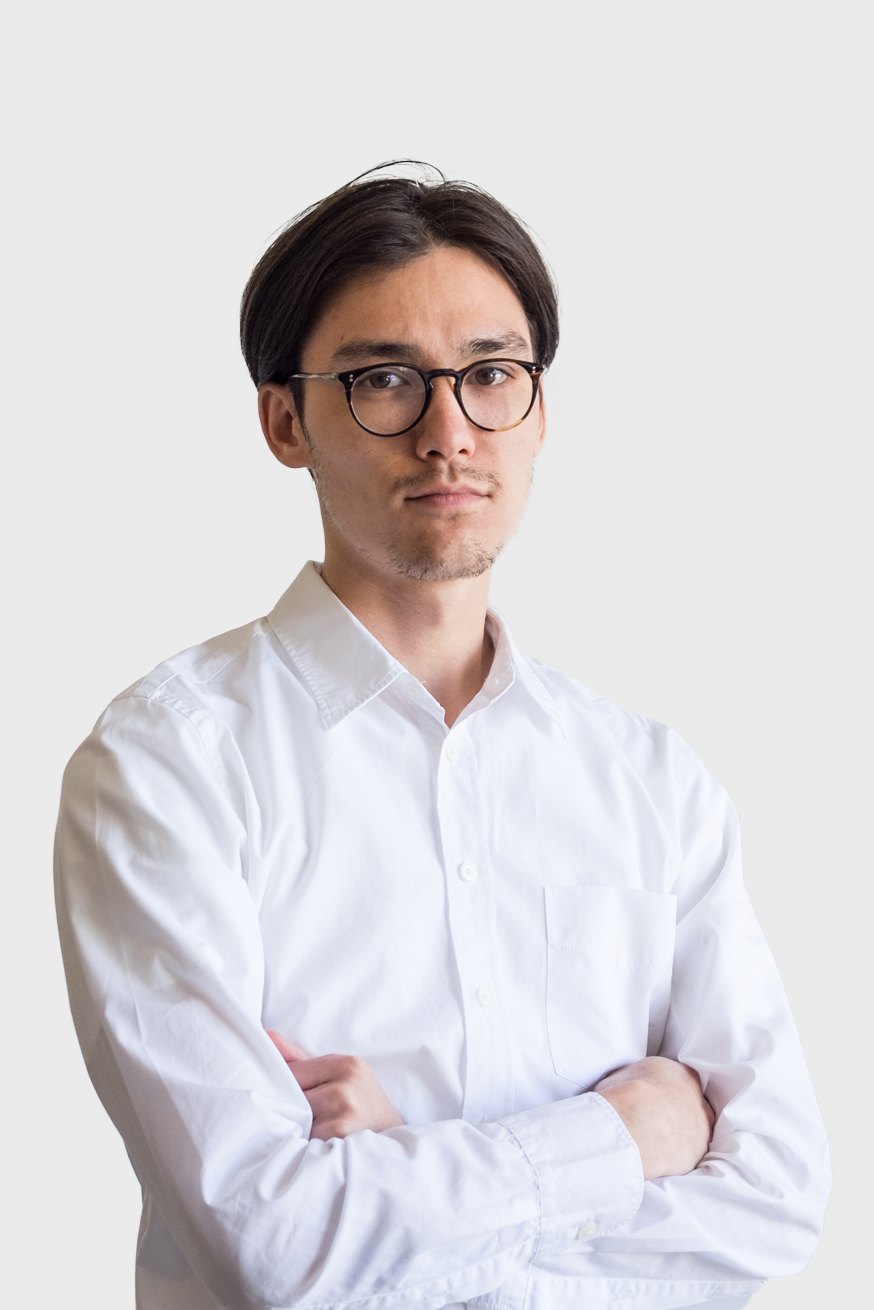
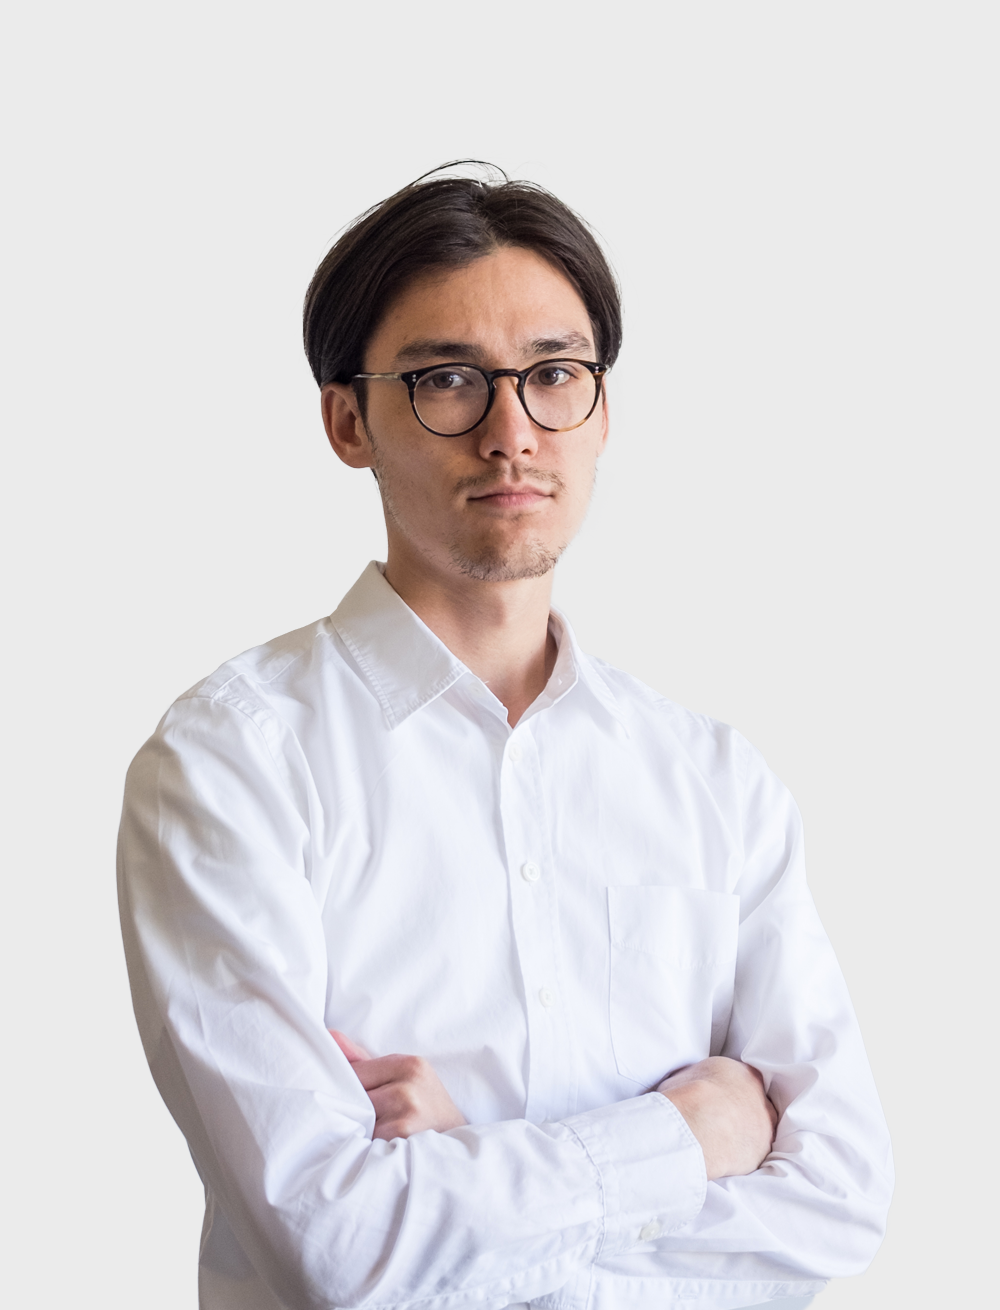
building out about page and more

diff --git a/src/pages/work/index.js b/src/pages/work/index.js
@@ -27,40 +27,14 @@ class Work extends Component {
 
     return (
       <>
-        <Hero heroText className="about-hero" headline="Our Work" subhead="We make a difference for our clients"/>
-        <Fade bottom distance="30px" duration={500}>
-        <Link to="../strive" className="work-card-link">
-          <Transporter name="caseStudyStrive" show={true} duration={250} properties={['margin']} unstableOnUnmount>
-            <FeaturedImage featuredFullProject className="featured-project featured-strive" projectName="Strive Digital" projectCategory="Digital Product" projectIndustry="Advocacy Tech"/>
-          </Transporter>
-        </Link>
-        <Link to="../motivote" className="work-card-link">
-          <Transporter name="caseStudyMotivote" show={true} duration={250} properties={['margin']} unstableOnUnmount>
-            <FeaturedImage featuredFullProject className="featured-project featured-motivote" projectName="Motivote" projectCategory="Digital Product" projectIndustry="Advocacy Tech"/>
-          </Transporter>
-        </Link>
-        <Link to="../betterfin" className="work-card-link">
-          <Transporter name="caseStudyBetterfin" show={true} duration={250} properties={['margin']} unstableOnUnmount>
-            <FeaturedImage featuredFullProject className="featured-project featured-betterfin" projectName="Betterfin" projectCategory="Digital Product" projectIndustry="Fintech"/>
-          </Transporter>
-        </Link>
-        <Link to="../votecrew" className="work-card-link">
-        <Transporter name="caseStudyVotecrew" show={true} duration={250} properties={['margin']} unstableOnUnmount>
-          <FeaturedImage featuredFullProject className="featured-project featured-votecrew" projectName="Votecrew" projectCategory="Digital Product" projectIndustry="Advocacy Tech"/>
-        </Transporter>
-        </Link>
-        <Link to="../farmigo" className="work-card-link">
-          <Transporter name="caseStudyFarmigo" show={true} duration={250} properties={['margin']} unstableOnUnmount>
-            <FeaturedImage featuredFullProject className="featured-project featured-farmigo" projectName="Farmigo" projectCategory="Digital Product" projectIndustry="Food"/>
-          </Transporter>
-        </Link>
-        <Link to="../instructrr" className="work-card-link">
-          <Transporter name="caseStudyInstructrr" show={true} duration={250} properties={['margin']} unstableOnUnmount>
-            <FeaturedImage featuredFullProject className="featured-project featured-instructrr" projectName="Instructrr" projectCategory="Digital Product" projectIndustry="Fitness"/>
-          </Transporter>
-        </Link>
+        <Hero
+          heroText
+          secondaryHero
+          className="work-hero"
+          headline={<>We make a <span className="headline-emphasis">difference</span> for our clients.</>}
+          subhead="We build trust to deliver impactful results."
+        />
         <WorkTogether headline="Let's get to know each other"/>
-        </Fade>
         <Footer/>
       </>
     )

diff --git a/src/styles/styles.scss b/src/styles/styles.scss
@@ -439,11 +439,11 @@ button:focus {
       position: relative;
       .hero-headline-fade {
         &.headline {
-          @include animation(.5s, 2s, heroHeadlineFade);
+          @include animation(.5s, 0s, heroHeadlineFade);
           opacity: 0;
         }
         .subhead {
-          @include animation(.5s, 2.25s, heroHeadlineFade);
+          @include animation(.5s, .25s, heroHeadlineFade);
           opacity: 0;
         }
       }
@@ -493,13 +493,30 @@ button:focus {
     .image-background {
     }
   }
-  &.about-hero {
+  &.secondary-hero {
     height: 80vh;
+    .headline-text-container {
+      .headline {
+        align-items: flex-end;
+        margin-bottom: 0;
+      }
+    }
+  }
+  &.about-hero {
     background-color: $lightBlue;
     color: $darkBlue;
     .subhead-text-container {
       .subhead {
         color: $darkBlue;
+      }
+    }
+  }
+  &.work-hero {
+    background-color: $yellow;
+    color: $darkGreen;
+    .subhead-text-container {
+      .subhead {
+        color: $darkGreen;
       }
     }
   }
@@ -1098,7 +1115,7 @@ button:focus {
         .text-body-slide {
           .text-statement {
             opacity: 0;
-            @include animation(.5s, .75s, textBodySlide);
+            @include animation(.5s, .5s, textBodySlide);
           }
         }
       }
@@ -1111,7 +1128,7 @@ button:focus {
         justify-content: center;
         .text-statement {
           opacity: 0;
-          @include animation(.5s, .75s, textBodySlide);
+          @include animation(.5s, .5s, textBodySlide);
         }
       }
       .text-statement {
@@ -1147,11 +1164,12 @@ button:focus {
       }
     }
     .member-image-container {
-      width: 100%; height: 100%;
+      width: 100%;
+      height: 100%;
+      background: transparent !important;
       &.right {
         .image-wrapper {
           .image-background {
-            background-position: left;
           }
         }
       }
@@ -1607,7 +1625,7 @@ button {
     .product-card-image {
       overflow: hidden;
       height: 250px; width: 100%;
-      background: grey;
+      background: $bgColorWorkCard;
       position: relative;
       .image-cover {
         height: 100%; width: 100%;

diff --git a/src/components/Hero/index.js b/src/components/Hero/index.js
@@ -7,7 +7,7 @@ import Reveal from 'react-reveal/Reveal';
 export default class Hero extends Component {
 
     render() {
-        const { heroText, heroImage, className, headline, subhead, projectName, projectCategory, projectIndustry, featuredWorks, noFeaturedWorks, style, anim } = this.props
+        const { heroText, heroImage, className, headline, subhead, projectName, projectCategory, projectIndustry, featuredWorks, secondaryHero, style, anim } = this.props
         return (
             <div className="nomargin-container" style={style}>
                 {heroText && headline && subhead && featuredWorks &&
@@ -35,9 +35,9 @@ export default class Hero extends Component {
                     </Grid>
                   </div>
                 }
-                {heroText && headline && subhead && noFeaturedWorks &&
+                {heroText && headline && subhead && secondaryHero &&
                   <div classname="container">
-                    <Grid className={`hero text-hero ${className}`} container alignItems="center">
+                    <Grid className={`hero text-hero secondary-hero ${className}`} container alignItems="center">
                       <Grid item md={7} xs={6}  className="headline-text-container">
                         <Reveal effect="hero-headline-fade">
                             <p className="headline">{headline}</p>

diff --git a/src/pages/about/index.js b/src/pages/about/index.js
@@ -20,7 +20,9 @@ class About extends Component {
     [
       require("../../assets/team/team-1-small.jpg"),
       require("../../assets/team/zach.png"),
-      require("../../assets/team/adrian.png")
+      require("../../assets/team/adrian.png"),
+      require("../../assets/team/alana.png"),
+      require("../../assets/team/taylor.png")
     ].forEach(preloadImage)
   }
 
@@ -31,7 +33,7 @@ class About extends Component {
       <>
         <Hero
           heroText
-          noFeaturedWorks
+          secondaryHero
           className="about-hero"
           headline={<>Small Team. <span className="headline-emphasis">Big Impact.</span></>}
           subhead="We're startup industry veterans who care deeply about Making A Difference."

diff --git a/src/styles/variables.scss b/src/styles/variables.scss
@@ -27,6 +27,7 @@ $accentColor: #ffde7c;
 
 
 //NEWSITE
+$buffer: 10px;
 
 $yellow:                #F5E1A4;
 $pink:                  #D7A9E3;
@@ -72,10 +73,10 @@ $lineHeightLargeDesktop: $fontSizeLargeDesktop*2;
 // $fontSizeHeadline: 20px;
 
 
+
 $fontSizeStatement: 38px;
 $lineHeightStatement: $fontSizeStatement*1.5;
 
-$buffer: 10px;
 $offsetValue: $buffer*6;
 $radius: 4px;
 $radiusFull: 100px;

diff --git a/src/styles/mixins.scss b/src/styles/mixins.scss
@@ -176,8 +176,8 @@
 //REACT REVEAL ANIMATIONS
 
 @keyframes imageCoverSlide {
-  0% {transform: translateX(0);}
-  100% {transform: translateX(100%);}
+  0% {transform: translateY(0);}
+  100% {transform: translateY(100%);}
 }
 
 @keyframes imageCoverSlideRight {
